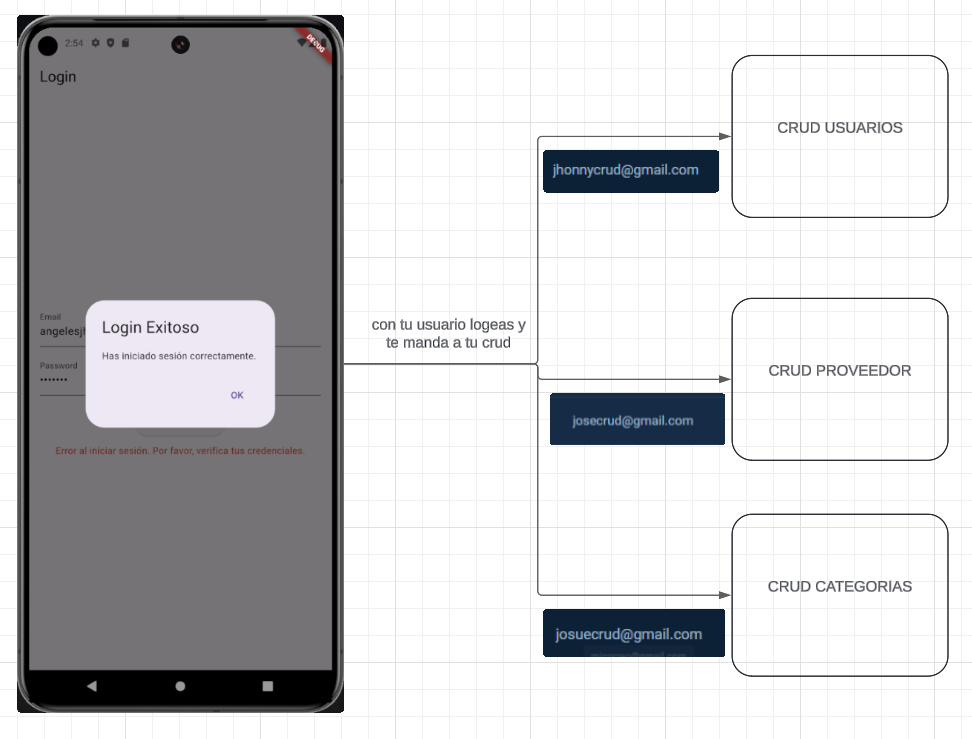
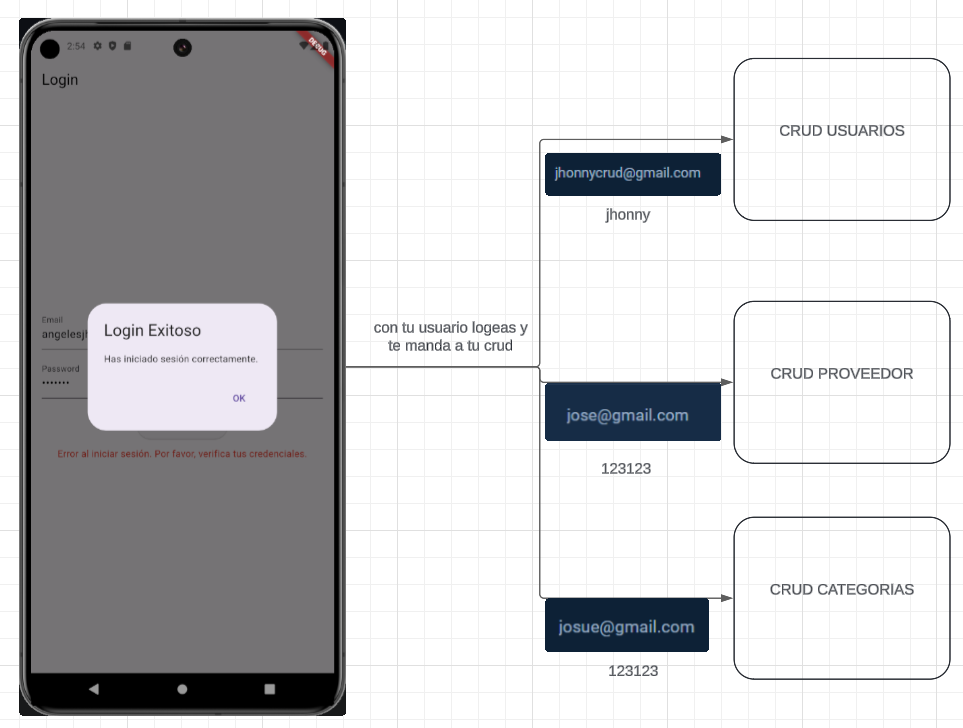
Se modifico el readme y el login

diff --git a/jrm_jcz_jjc_firebase/lib/main.dart b/jrm_jcz_jjc_firebase/lib/main.dart
@@ -77,12 +77,12 @@ class _LoginPageState extends State<LoginPage> {
             context,
             MaterialPageRoute(builder: (context) => UserHomePage()),
           );
-        } else if (email == 'josecrud@gmail.com') {
+        } else if (email == 'josue@gmail.com') {
           Navigator.push(
             context,
             MaterialPageRoute(builder: (context) => Categorias()),
           );
-        } else if (email == 'josuecrud@gmail.com') {
+        } else if (email == 'jose@gmail.com') {
           Navigator.push(
             context,
             MaterialPageRoute(builder: (context) => Placeholder()),

diff --git a/README.md b/README.md
@@ -10,3 +10,41 @@ Cada integrante del grupo debe realizar un CRUD de algún módulo:
 Crear el registro de cada caso si eliges Usuarios, debes crear tu crud usuarios y añadir usuarios, se debe ver en firebase lo que se trabajo.
 ### Flujo de vistas:
 ![alt text](/img/image.png)
+## Autenticacion
+![alt text](/img/usuarios.png)
+## Colleciones
+![alt text](/img/image-18.png)
+![alt text](/img/image-19.png)
+![alt text](/img/image-20.png)
+
+
+## Demostracion
+### CrudUsuarios
+- #### **Listar**
+![alt text](/img/image-9.png)
+![alt text](/img/image-10.png)
+- #### **Añadir**
+![alt text](/img/image-11.png)
+![alt text](/img/image-12.png)
+- #### **Editar**
+![alt text](/img/image-13.png)
+![alt text](/img/image-14.png)
+- #### **Borrar**
+![alt text](/img/image-15.png)
+![alt text](/img/image-16.png)
+![alt text](/img/image-17.png)
+### CrudProveedor
+### CrudCategorias
+- #### **Listar**
+![alt text](/img/image-1.png)
+
+- #### **Añadir**
+![alt text](/img/image-2.png)
+![alt text](/img/image-3.png)
+- #### **Editar**
+![alt text](/img/image-4.png)
+![alt text](/img/image-5.png)
+- #### **Borrar**
+![alt text](/img/image-6.png)
+![alt text](/img/image-7.png)
+![alt text](/img/image-8.png)
